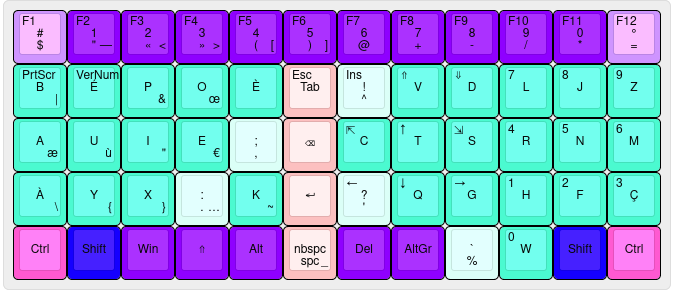
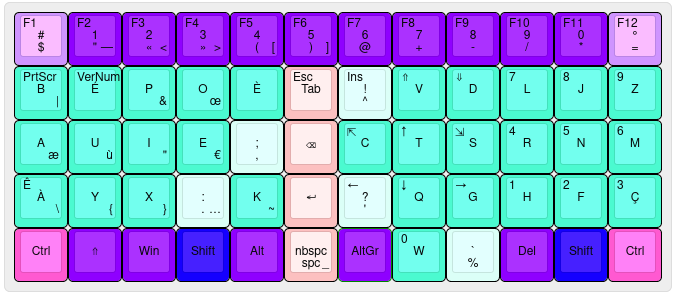
Modified the bépo layout a bit
Moved few keys around:
 - swapped w and AltGr.
 - swapped Raise and Shift
 - added ê/Ê

diff --git a/firmware/src/main.rs b/firmware/src/main.rs
@@ -106,15 +106,15 @@ pub static LAYERS: keyberon::layout::Layers = &[
         &[k(A),       k(S),       k(D),      k(F),    k(G),    k(BSpace), k(H),      k(J),    k(K),     k(L),       k(SColon), k(Quote)],
         &[k(Z),       k(X),       k(C),      k(V),    k(B),    k(Enter),  k(N),      k(M),    k(Comma), k(Dot),     k(Slash),  k(Bslash)  ],
 
-        &[k(LCtrl),   k(LShift), k(LGui),    l(1),    k(LAlt), k(Space),  k(Delete), k(RAlt), k(Equal), k(RBracket),k(RShift), k(RCtrl)],
+        &[k(LCtrl),   l(1),    k(LGui), k(LShift),    k(LAlt), k(Space),  k(RAlt), k(RBracket), k(Equal), k(Delete),k(RShift), k(RCtrl)],
 
     ], &[
         &[k(F1),k(F2),k(F3),k(F4),k(F5),k(F6),k(F7),k(F8),k(F9),k(F10),k(F11),k(F12)],
 
         &[k(SysReq), k(NumLock), Trans, Trans,  Trans,  k(Escape),  k(Insert), k(PgUp), k(PgDown), Trans,    Trans, Trans ],
         &[Trans    , Trans     , Trans, Trans,  Trans,  Trans,  k(Home),   k(Up),   k(End),    Trans,    Trans, Trans ],
-        &[Trans,     Trans,      Trans, Trans,  Trans,  Trans,  k(Left),   k(Down), k(Right),  Trans,    Trans, Trans ],
-        &[Trans,     Trans,      Trans, Trans,  Trans,  Trans,  Trans,     Trans,   Trans,     Trans,    Trans, Trans ],
+        &[k(NonUsBslash), Trans,      Trans, Trans,  Trans,  Trans,  k(Left),   k(Down), k(Right),  Trans,    Trans, k(PgUp) ],
+        &[Trans,     Trans,      Trans, Trans,  Trans,  Trans,  Trans,     Trans,   Trans,     Trans,    Trans, k(PgDown) ],
     ],
 ];
 
@@ -133,8 +133,7 @@ where
         } else {
             self.leds[0] = colors::BLACK;
         }
-        self.ws
-            .write(brightness(self.leds.iter().cloned(), 10));
+        self.ws.write(brightness(self.leds.iter().cloned(), 10));
     }
 
     fn num_lock(&mut self, status: bool) {
@@ -143,8 +142,7 @@ where
         } else {
             self.leds[1] = colors::BLACK;
         }
-        self.ws
-            .write(brightness(self.leds.iter().cloned(), 10));
+        self.ws.write(brightness(self.leds.iter().cloned(), 10));
     }
 
     fn compose(&mut self, status: bool) {
@@ -153,8 +151,7 @@ where
         } else {
             self.leds[3] = colors::BLACK;
         }
-        self.ws
-            .write(brightness(self.leds.iter().cloned(), 10));
+        self.ws.write(brightness(self.leds.iter().cloned(), 10));
     }
 }
 
